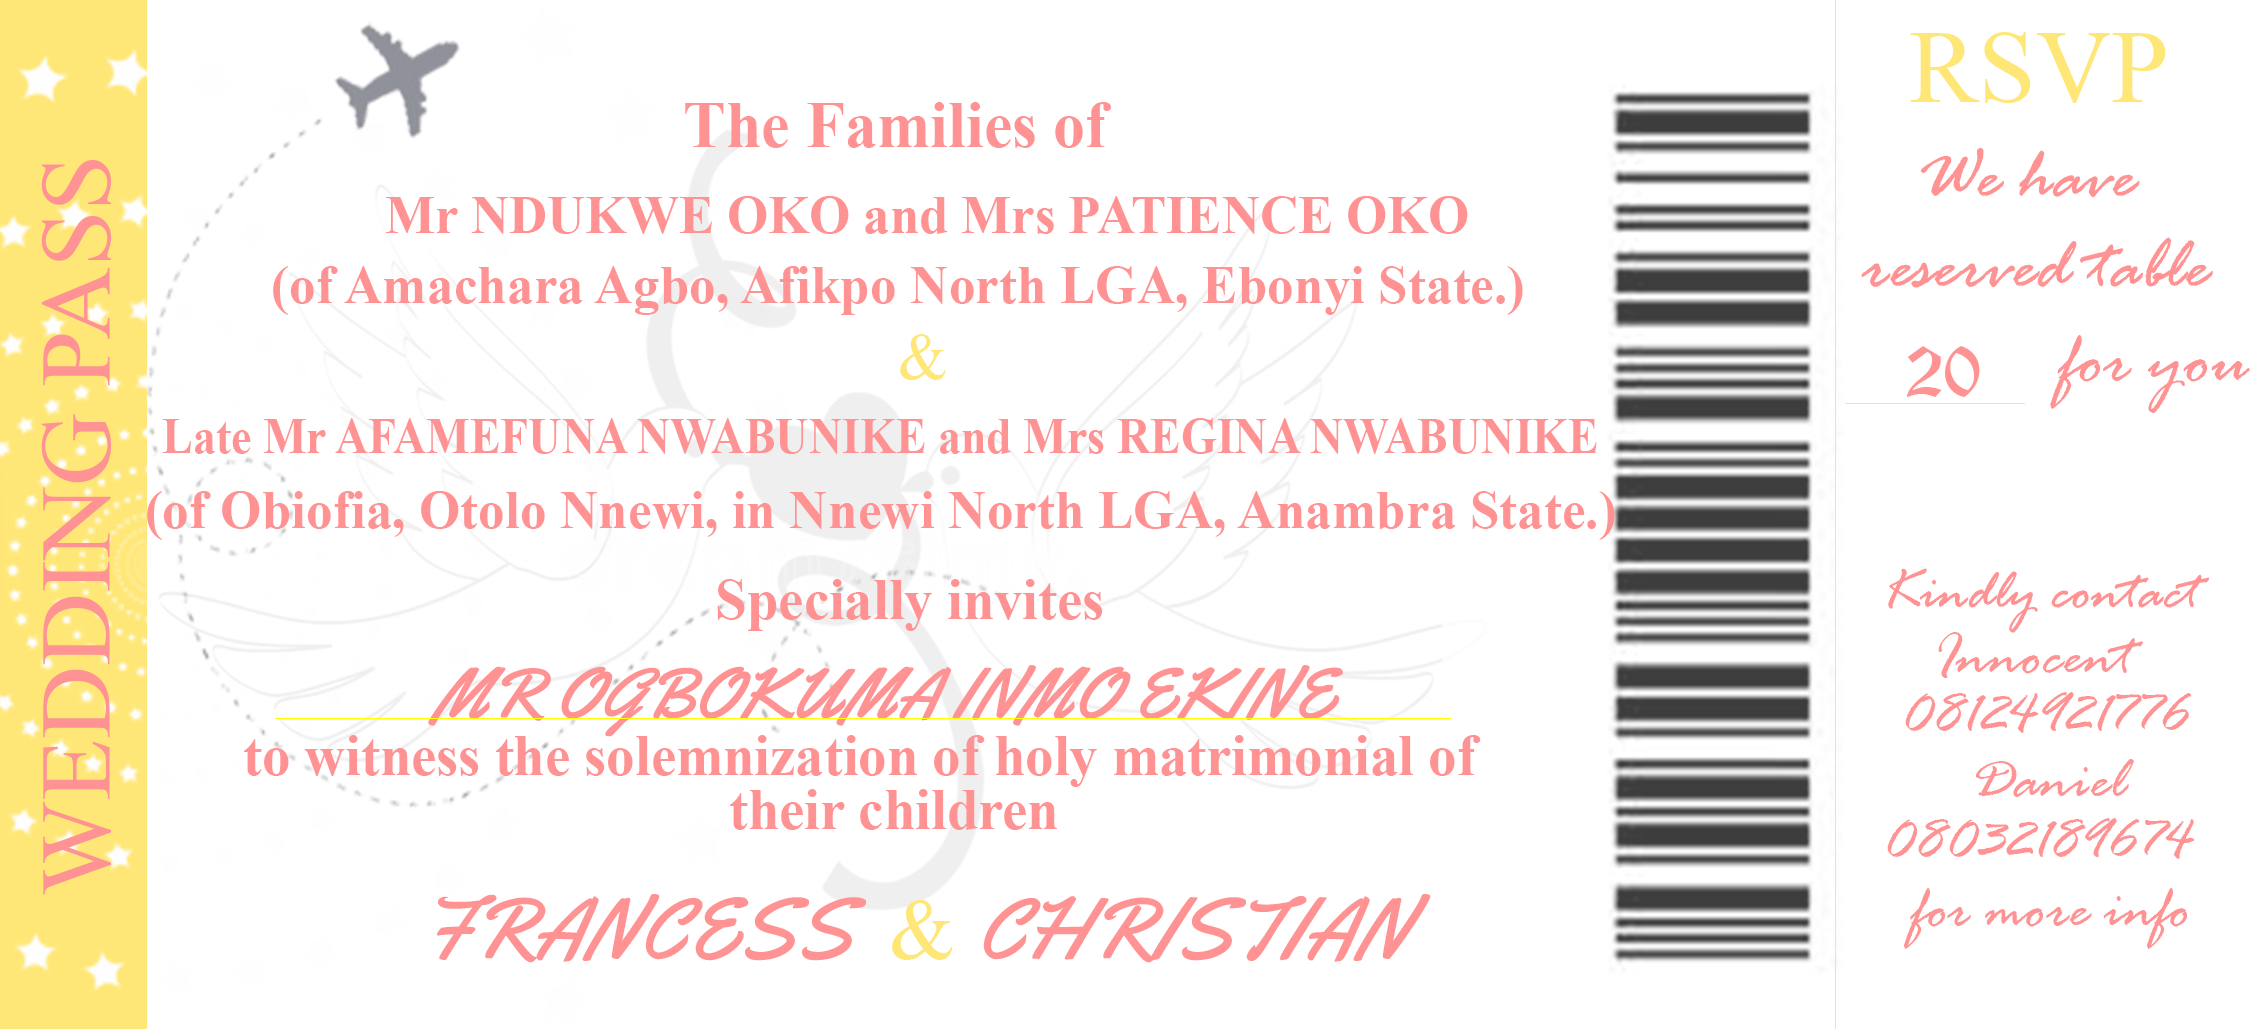
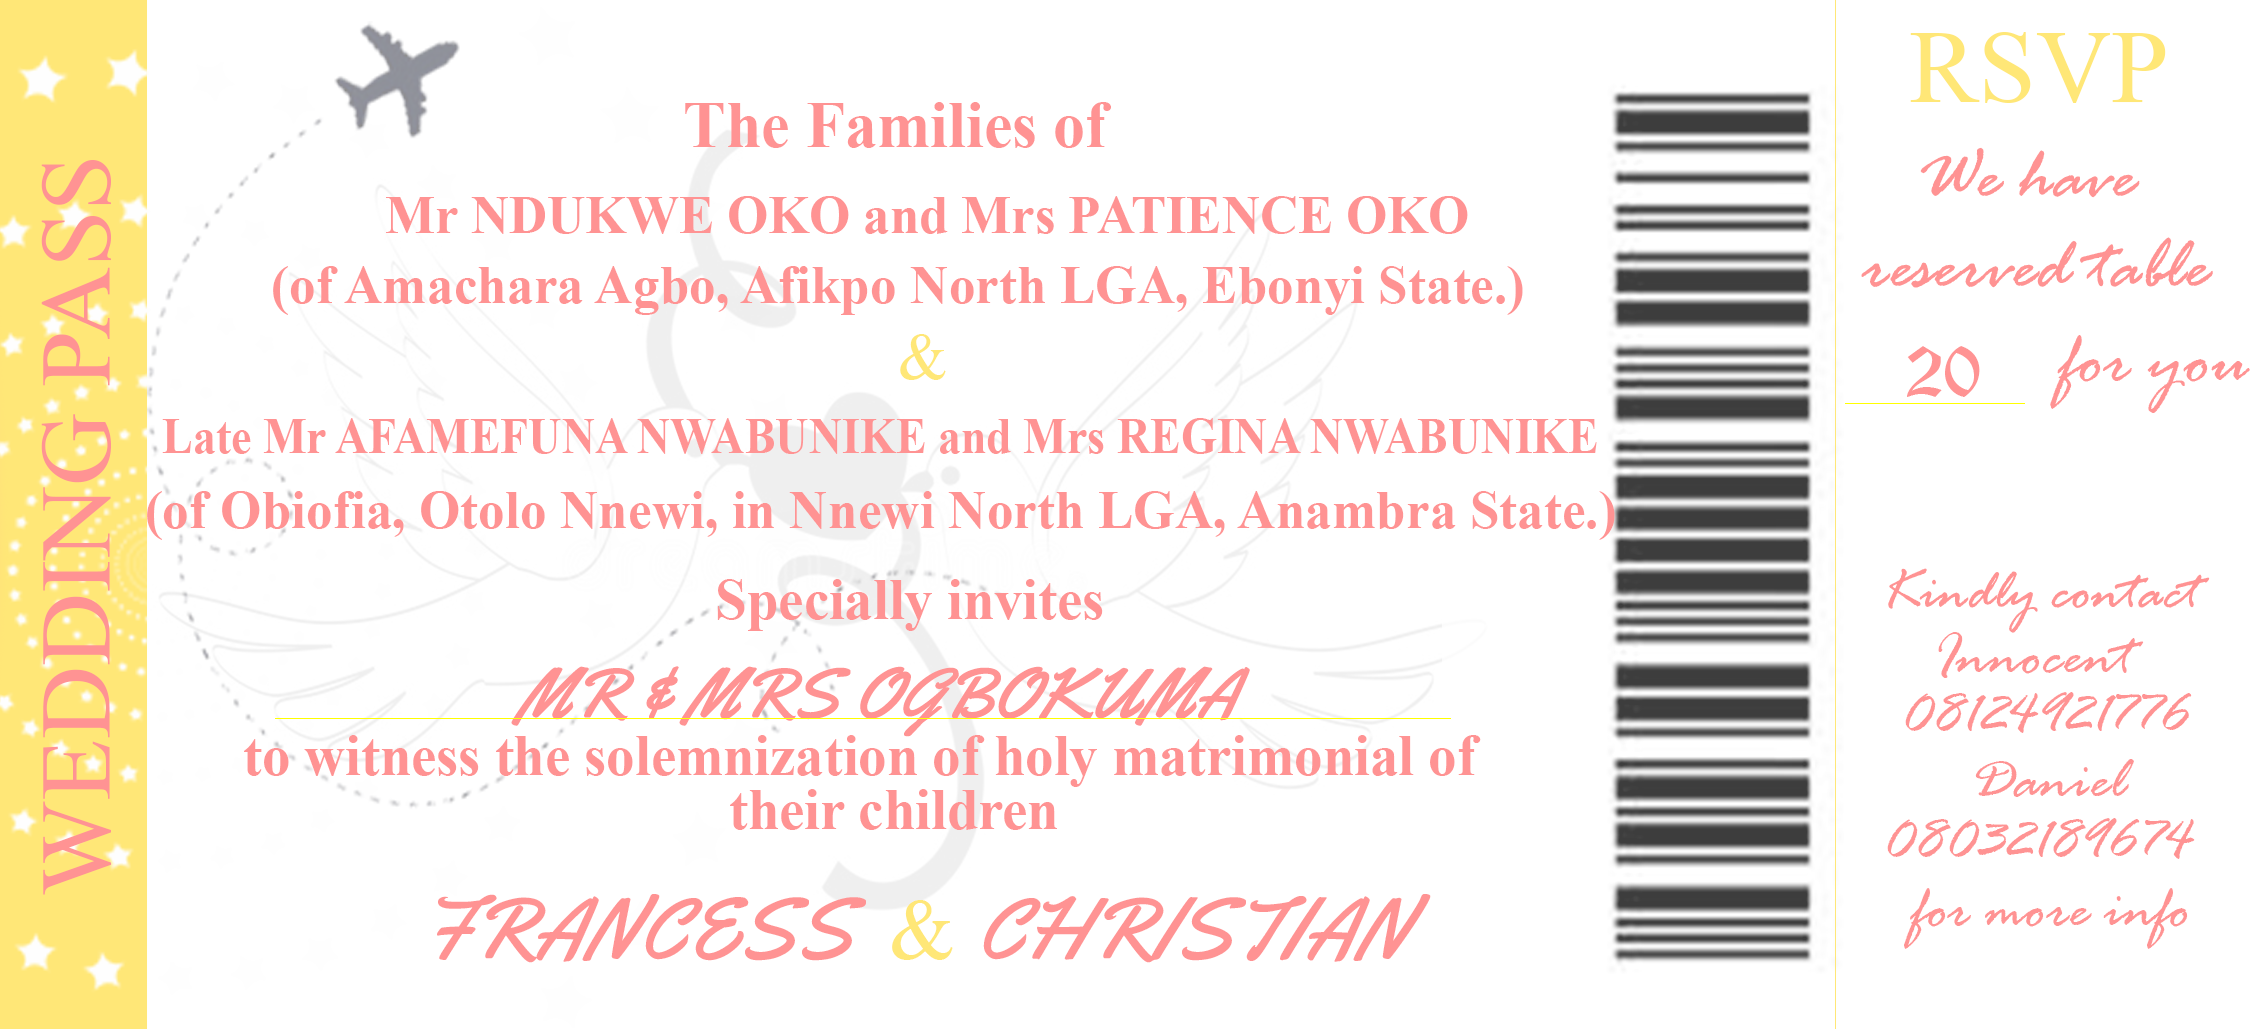
all

Changed region(s): [[0.1867, 0.622, 0.5911, 0.7153]]

diff --git a/index.html b/index.html
@@ -4,7 +4,7 @@
     <meta charset="UTF-8" />
     <link rel="icon" type="image/svg+xml" href="/vite.svg" />
     <meta name="viewport" content="width=device-width, initial-scale=1.0" />
-    <meta name="description" content="Mr Ogbokuma Inmo Ekine Wedding Invite" />
+    <meta name="description" content="Mr and Mrs Ogbokuma Wedding Invite" />
     <title>Wedding Invite</title>
   </head>
   <body>
